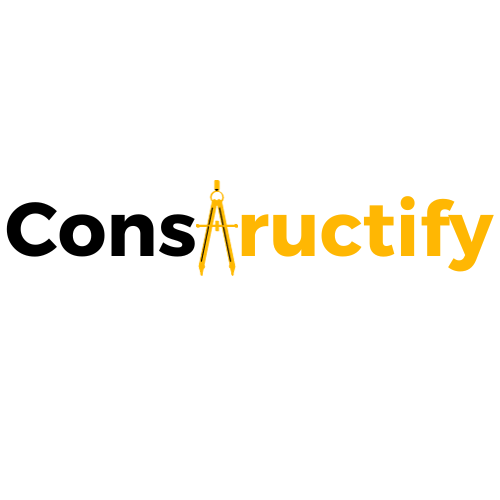
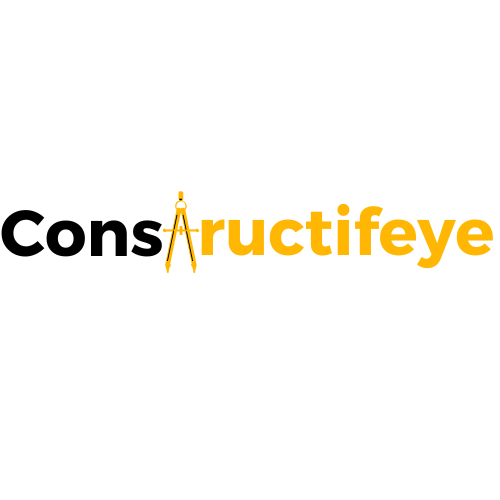
Changes Made

Changed region(s): [[0.0, 0.36, 0.99, 0.57]]

diff --git a/src/components/TestimonialSlider.jsx b/src/components/TestimonialSlider.jsx
@@ -10,17 +10,17 @@ import Image_3 from '../assets/About/Image_3.png';
 const testimonials = [
     { 
         name: 'Farhan Aslam', 
-        message: 'From the onset, the Constructify team exhibited impeccable management skills. Their seamless communication and coordination made our collaboration effortless and productive. Kudos to a team that genuinely understands the essence of great work!',
+        message: 'From the onset, the Constructifeye team exhibited impeccable management skills. Their seamless communication and coordination made our collaboration effortless and productive. Kudos to a team that genuinely understands the essence of great work!',
         imageUrl: Image_1
     },
     {
         name: 'Faheem Aslam',
-        message: 'Constructify management and team have impressed me beyond measure. Their attention to detail and unwavering commitment to our project ensured its success. In a field where teamwork is paramount, their team demonstrated excellence every step of the way.',
+        message: 'Constructifeye management and team have impressed me beyond measure. Their attention to detail and unwavering commitment to our project ensured its success. In a field where teamwork is paramount, their team demonstrated excellence every step of the way.',
         imageUrl: Image_2
     },
     {
         name: 'Amir Saeed',
-        message: 'Constructify 3D scanning and estimation services are truly top-notch. The precision and clarity of the scans saved us both time and resources. Their accurate estimations gave us the confidence to proceed with our project. They are definitely leading the way in innovative construction solutions.',
+        message: 'Constructifeye 3D scanning and estimation services are truly top-notch. The precision and clarity of the scans saved us both time and resources. Their accurate estimations gave us the confidence to proceed with our project. They are definitely leading the way in innovative construction solutions.',
         imageUrl: Image_3
     },
 ];

diff --git a/src/components/HomeMain.jsx b/src/components/HomeMain.jsx
@@ -27,7 +27,7 @@ const services = [
 
 ];
 
-const tasks = ["Scheduling A Demo", "Pricing Information", "Scheduling A 3D Capture", "Speaking With A Constructify Specialist" , "A Partnership / Reseller Agreement", "Joining the Constructify Team" , "Others"];
+const tasks = ["Scheduling A Demo", "Pricing Information", "Scheduling A 3D Capture", "Speaking With A Constructifeye Specialist" , "A Partnership / Reseller Agreement", "Joining the Constructifeye Team" , "Others"];
 
 const HomeMain = () => {
   const matterportURL =
@@ -92,7 +92,7 @@ const HomeMain = () => {
         return (
           <div className="step-logo-container">
             <img src={Logo} alt="Company Logo" className="company-logo" />
-            <p className="company-description">Schedule A Demo, Speak With A Constructify Specialist, or Schedule A 3D Capture We will reach out to you ASAP to assist</p>
+            <p className="company-description">Schedule A Demo, Speak With A Constructifeye Specialist, or Schedule A 3D Capture We will reach out to you ASAP to assist</p>
             <p className="company-description_1">Form will take only few minutes of you.</p>
 
             <button className="next-button" onClick={handleNextStep}>

diff --git a/src/components/Navbar.jsx b/src/components/Navbar.jsx
@@ -31,9 +31,9 @@ const tasks = [
   "Scheduling A Demo",
   "Pricing Information",
   "Scheduling A 3D Capture",
-  "Speaking With A Constructify Specialist",
+  "Speaking With A Constructifeye Specialist",
   "A Partnership / Reseller Agreement",
-  "Joining the Constructify Team",
+  "Joining the Constructifeye Team",
   "Others",
 ];
 
@@ -97,7 +97,7 @@ const Navbar = () => {
           <div className="step-logo-container">
             <img src={Logo1} alt="Company Logo" className="company-logo" />
             <p className="company-description">
-              Schedule A Demo, Speak With A Constructify Specialist, or Schedule
+              Schedule A Demo, Speak With A Constructifeye Specialist, or Schedule
               A 3D Capture We will reach out to you ASAP to assist
             </p>
             <p className="company-description_1">

diff --git a/index.html b/index.html
@@ -2,9 +2,9 @@
 <html lang="en">
   <head>
     <meta charset="UTF-8" />
-    <link rel="icon" type="image/svg+xml" href="/vite.svg" />
+    <link rel="icon" type="image/svg+xml" href="/favi.png" />
     <meta name="viewport" content="width=device-width, initial-scale=1.0" />
-    <title>Constructify</title>
+    <title>Constructifeye</title>
     <link href="https://fonts.googleapis.com/css2?family=Montserrat:wght@400;500;700&display=swap" rel="stylesheet">
     <script src="https://calendly.com/assets/external/widget.js" type="text/javascript"></script>
 
